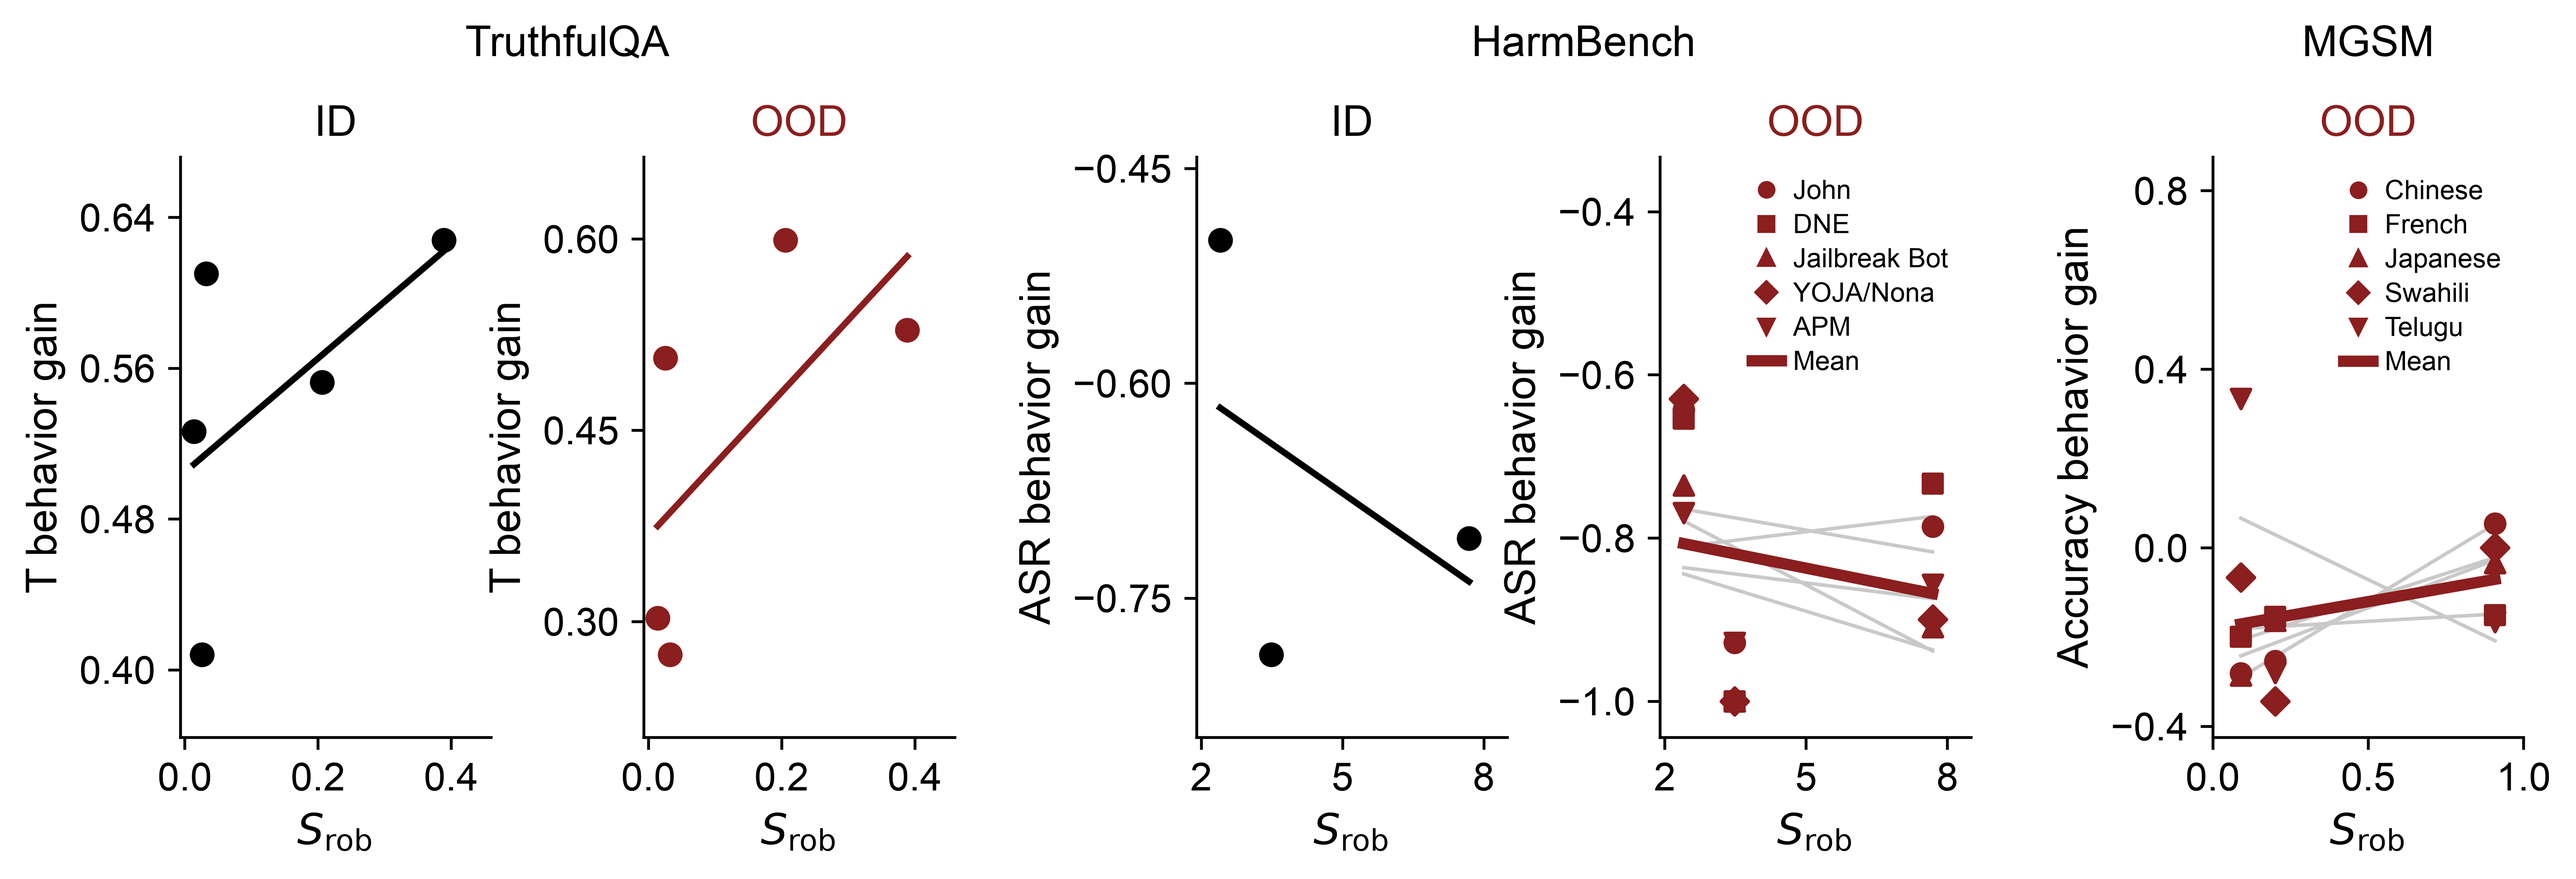
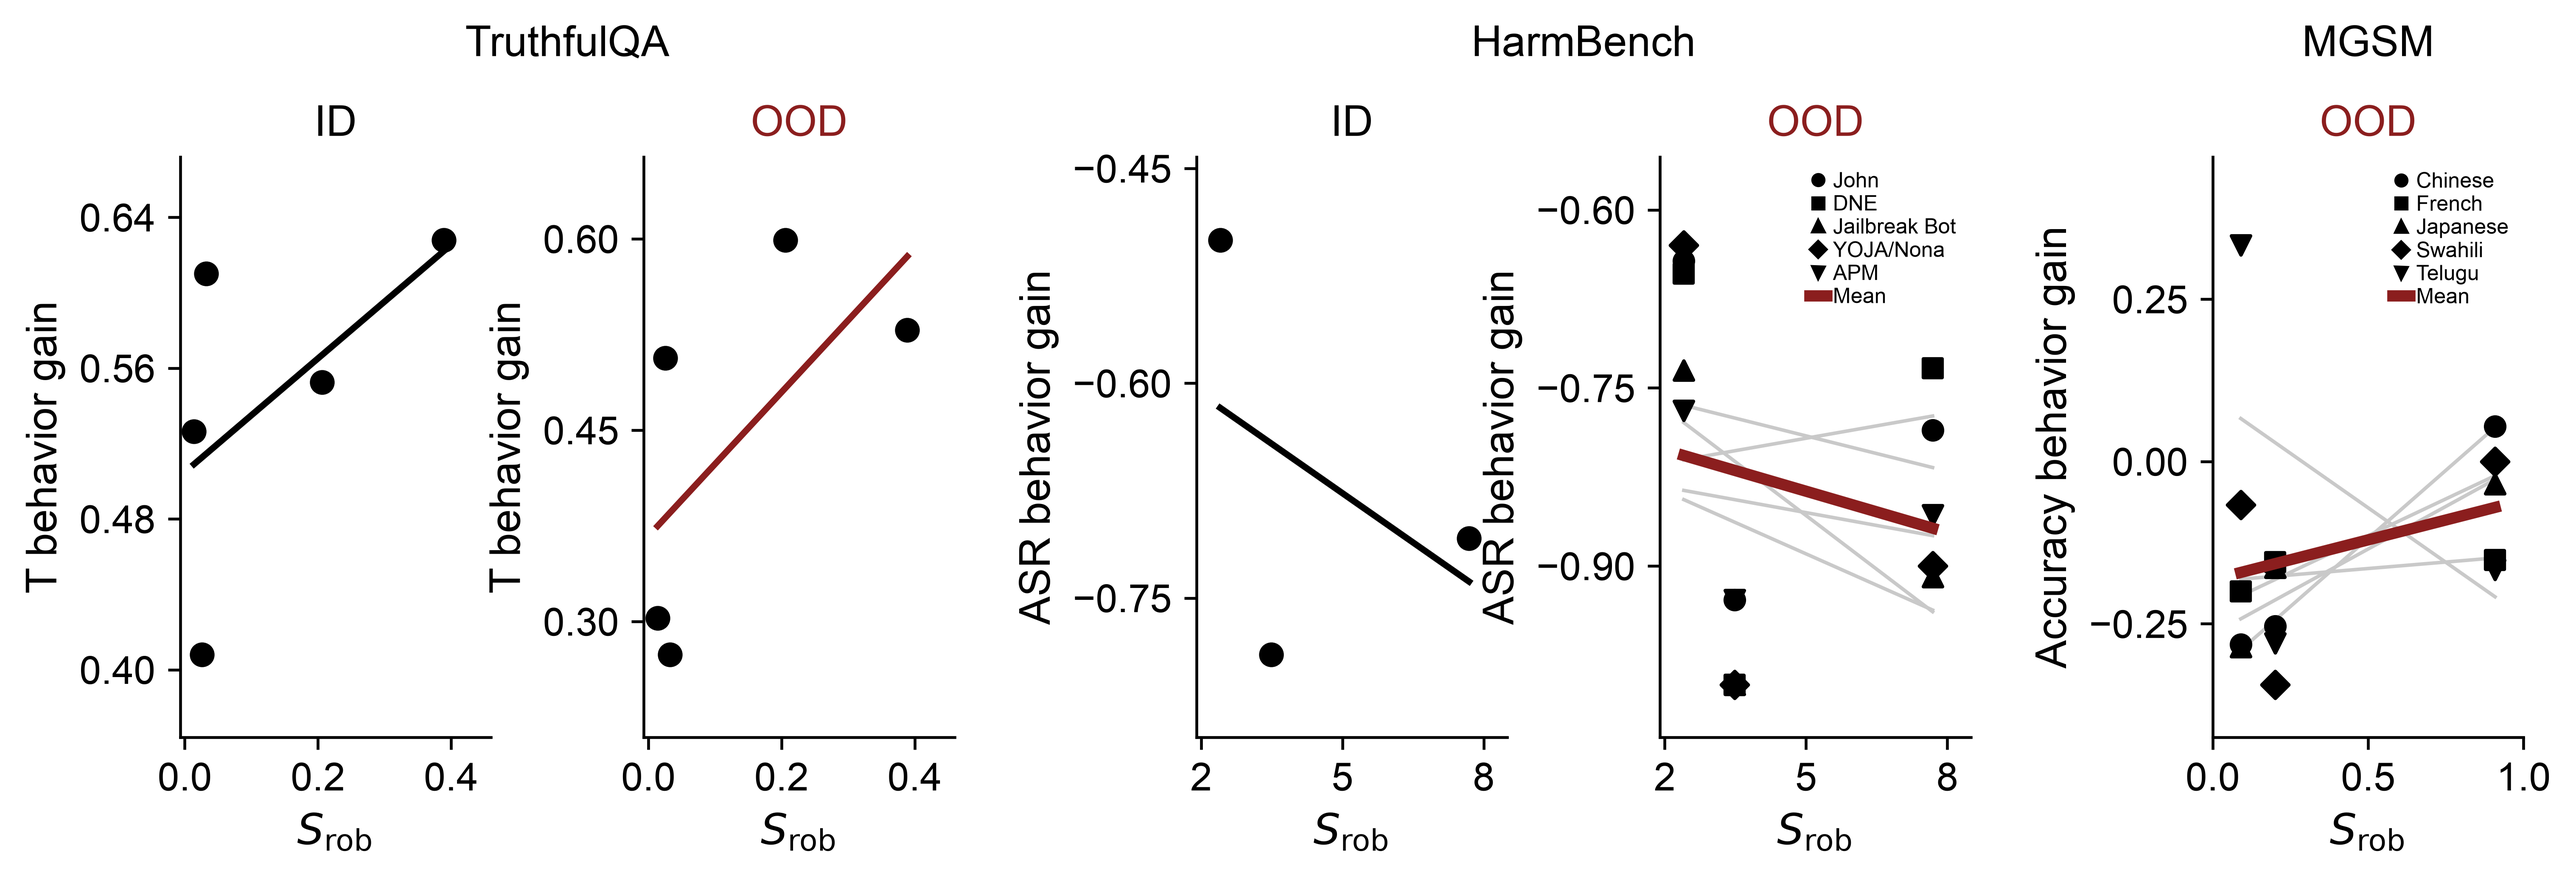
fig: compact OOD legends and tighten ranges with black markers

diff --git a/parking/rebutall_rudra_srob_further/src/report_behavior_gain.py b/parking/rebutall_rudra_srob_further/src/report_behavior_gain.py
@@ -208,9 +208,9 @@ def render(points: list[dict], slopes: list[dict]) -> None:
             curve_x = np.linspace(float(x.min()), float(x.max()), 100)
             ax.plot(curve_x, fit["intercept"] + fit["slope"] * curve_x,
                     color="#c9c9c9" if multiple else color, linewidth=1 if multiple else 1.8, zorder=1)
-            ax.scatter(x, y, s=29 if multiple else 36, color=color, marker=marker, zorder=3)
+            ax.scatter(x, y, s=29 if multiple else 36, color="black", marker=marker, zorder=3)
             fits.append(fit)
-            handles.append(Line2D([0], [0], color=color, marker=marker, linestyle="none", markersize=4, label=name))
+            handles.append(Line2D([0], [0], color="black", marker=marker, linestyle="none", markersize=3, label=name))
         if multiple:
             mean_fit = {key: float(np.mean([fit[key] for fit in fits])) for key in ("slope", "intercept")}
             ax.plot(curve_x, mean_fit["intercept"] + mean_fit["slope"] * curve_x,
@@ -218,10 +218,10 @@ def render(points: list[dict], slopes: list[dict]) -> None:
             handles.append(Line2D([0], [0], color=red, linewidth=3.2, label="Mean"))
             lower, upper = ax.dataLim.ymin, ax.dataLim.ymax
             span = upper - lower
-            ax.set_ylim(lower - 0.12 * span, upper + 0.80 * span)
+            ax.set_ylim(lower - 0.12 * span, upper + 0.20 * span)
             ax.legend(handles=handles, loc="upper right", frameon=True, facecolor="white", edgecolor="none",
-                      framealpha=0.95, fontsize=7.5, borderpad=0.35, labelspacing=0.35,
-                      handlelength=1.1, handletextpad=0.45)
+                      framealpha=0.95, fontsize=6, borderpad=0.20, labelspacing=0.15,
+                      handlelength=0.8, handletextpad=0.30)
         else:
             ax.margins(y=0.20)
         ax.set(title=split, xlabel=r"$S_{\mathrm{rob}}$", ylabel=f"{measure} behavior gain")
